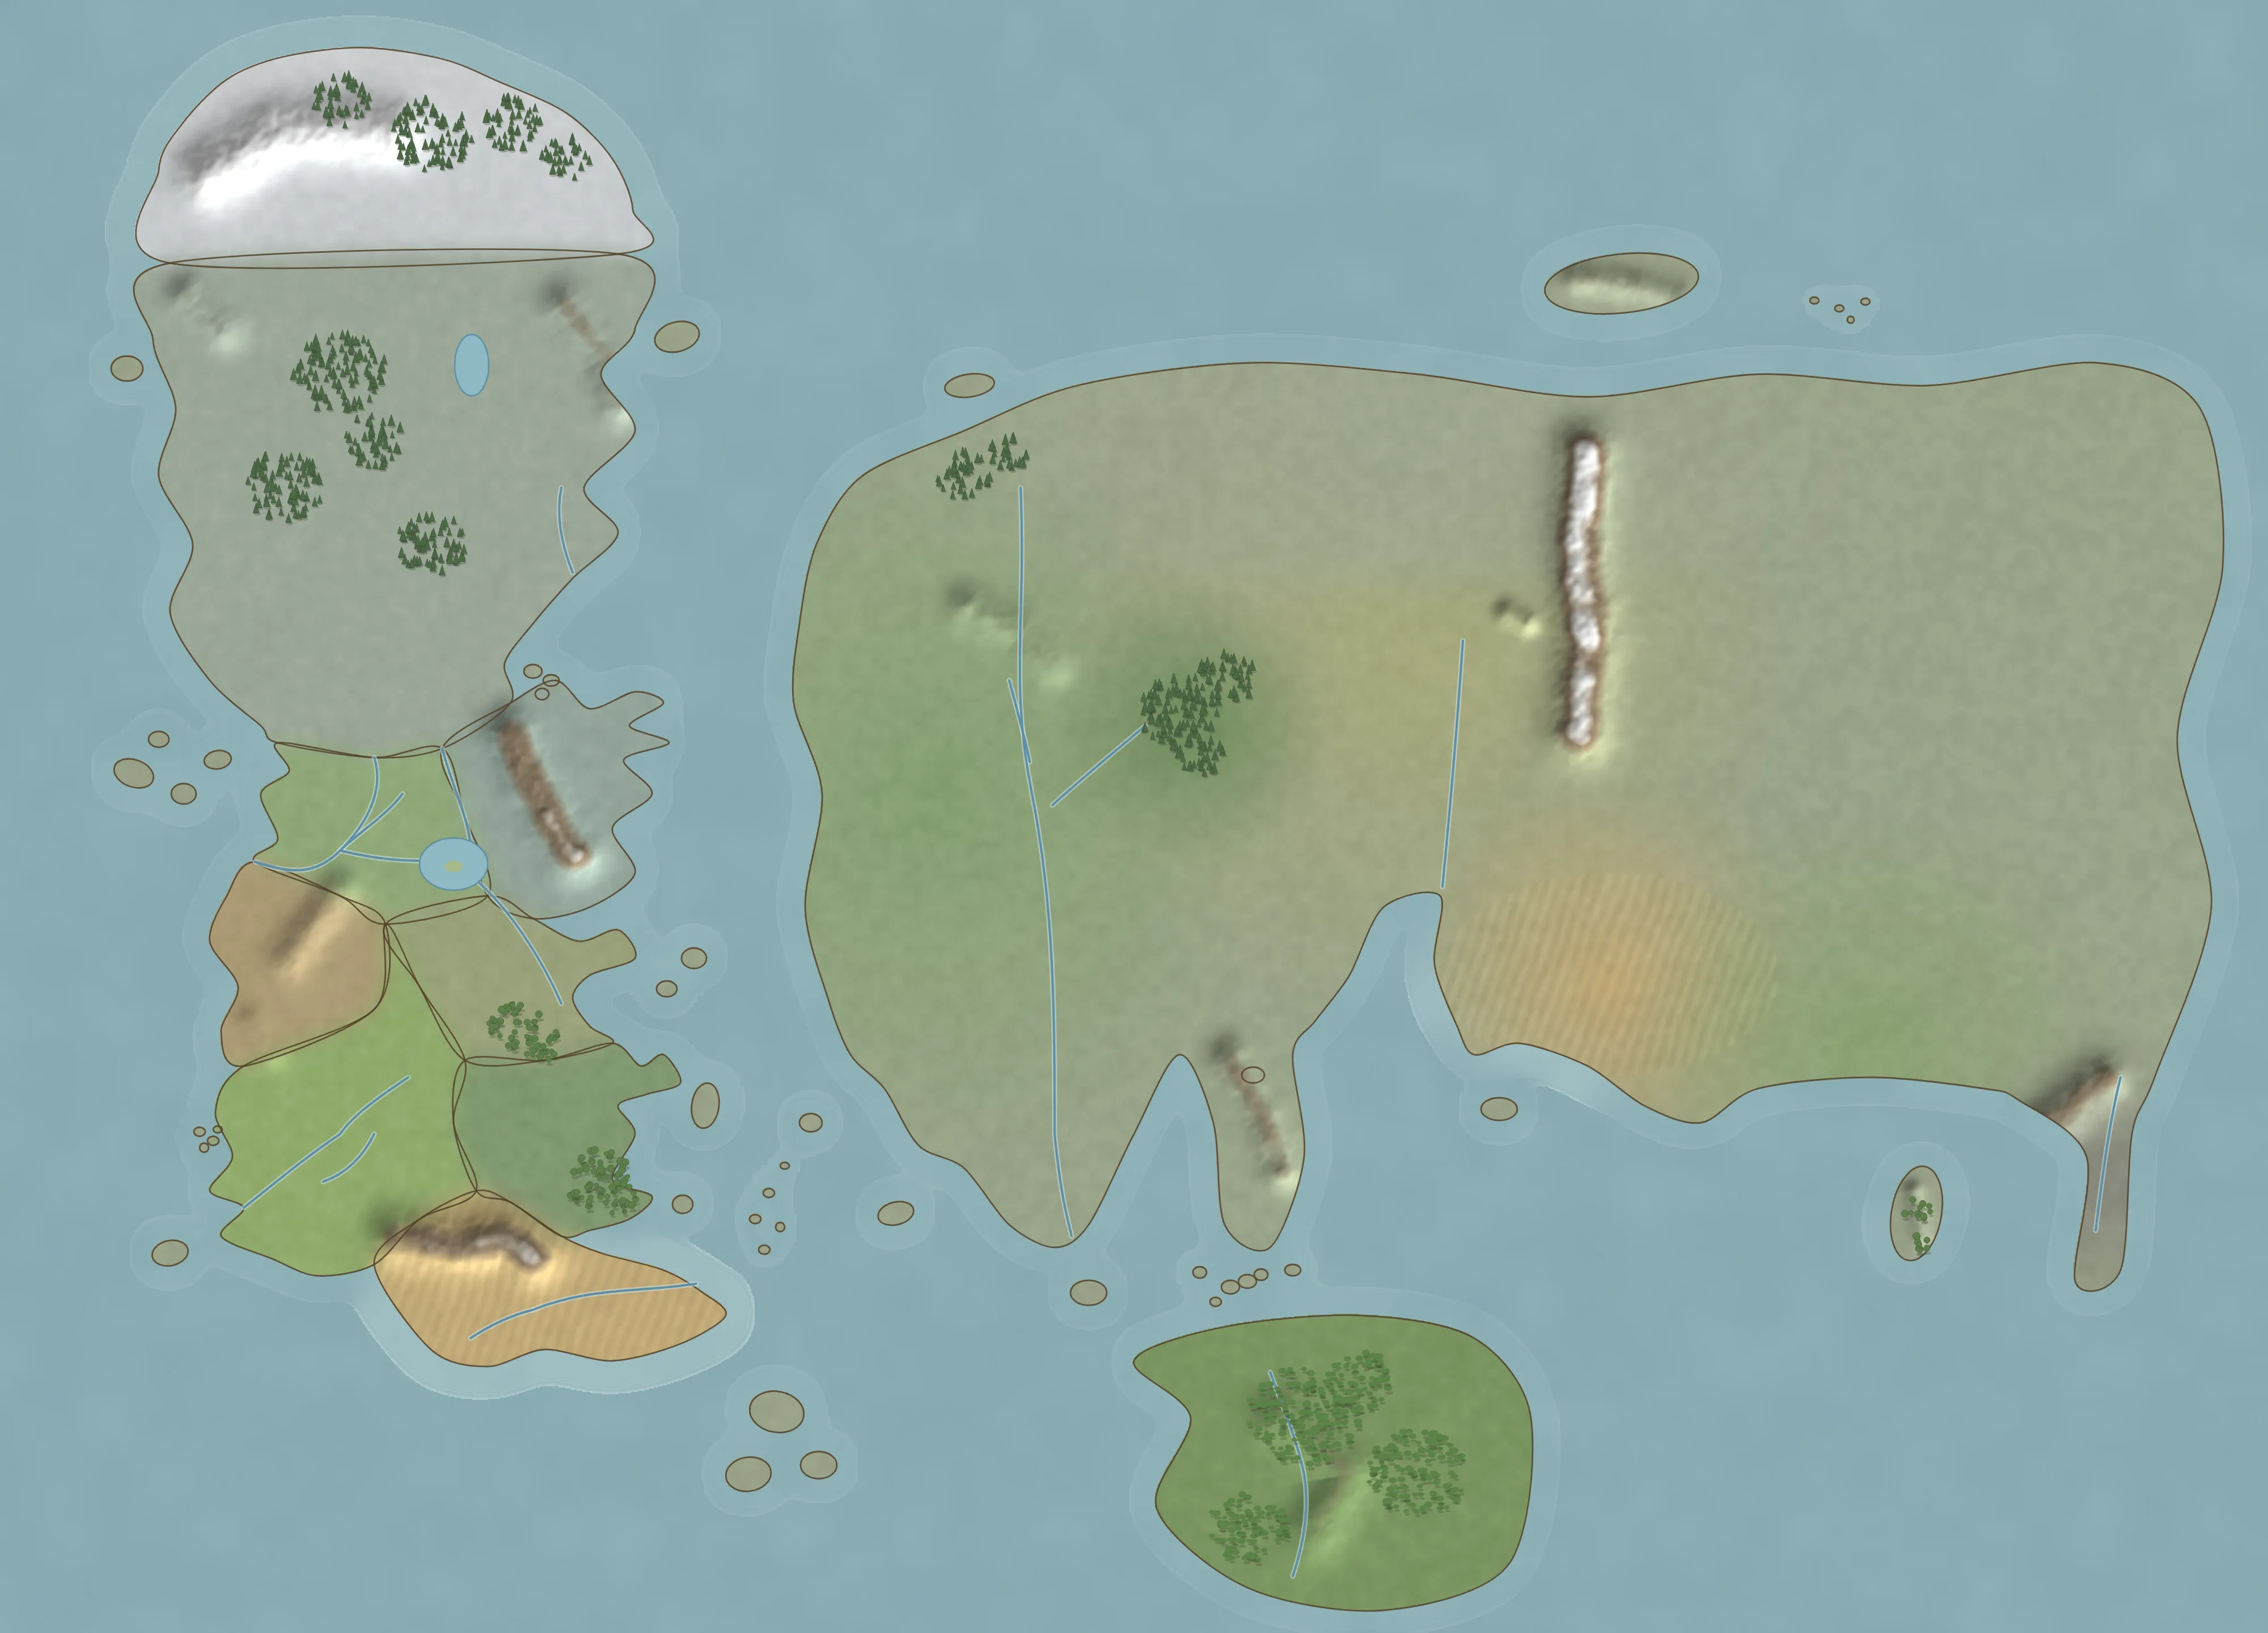
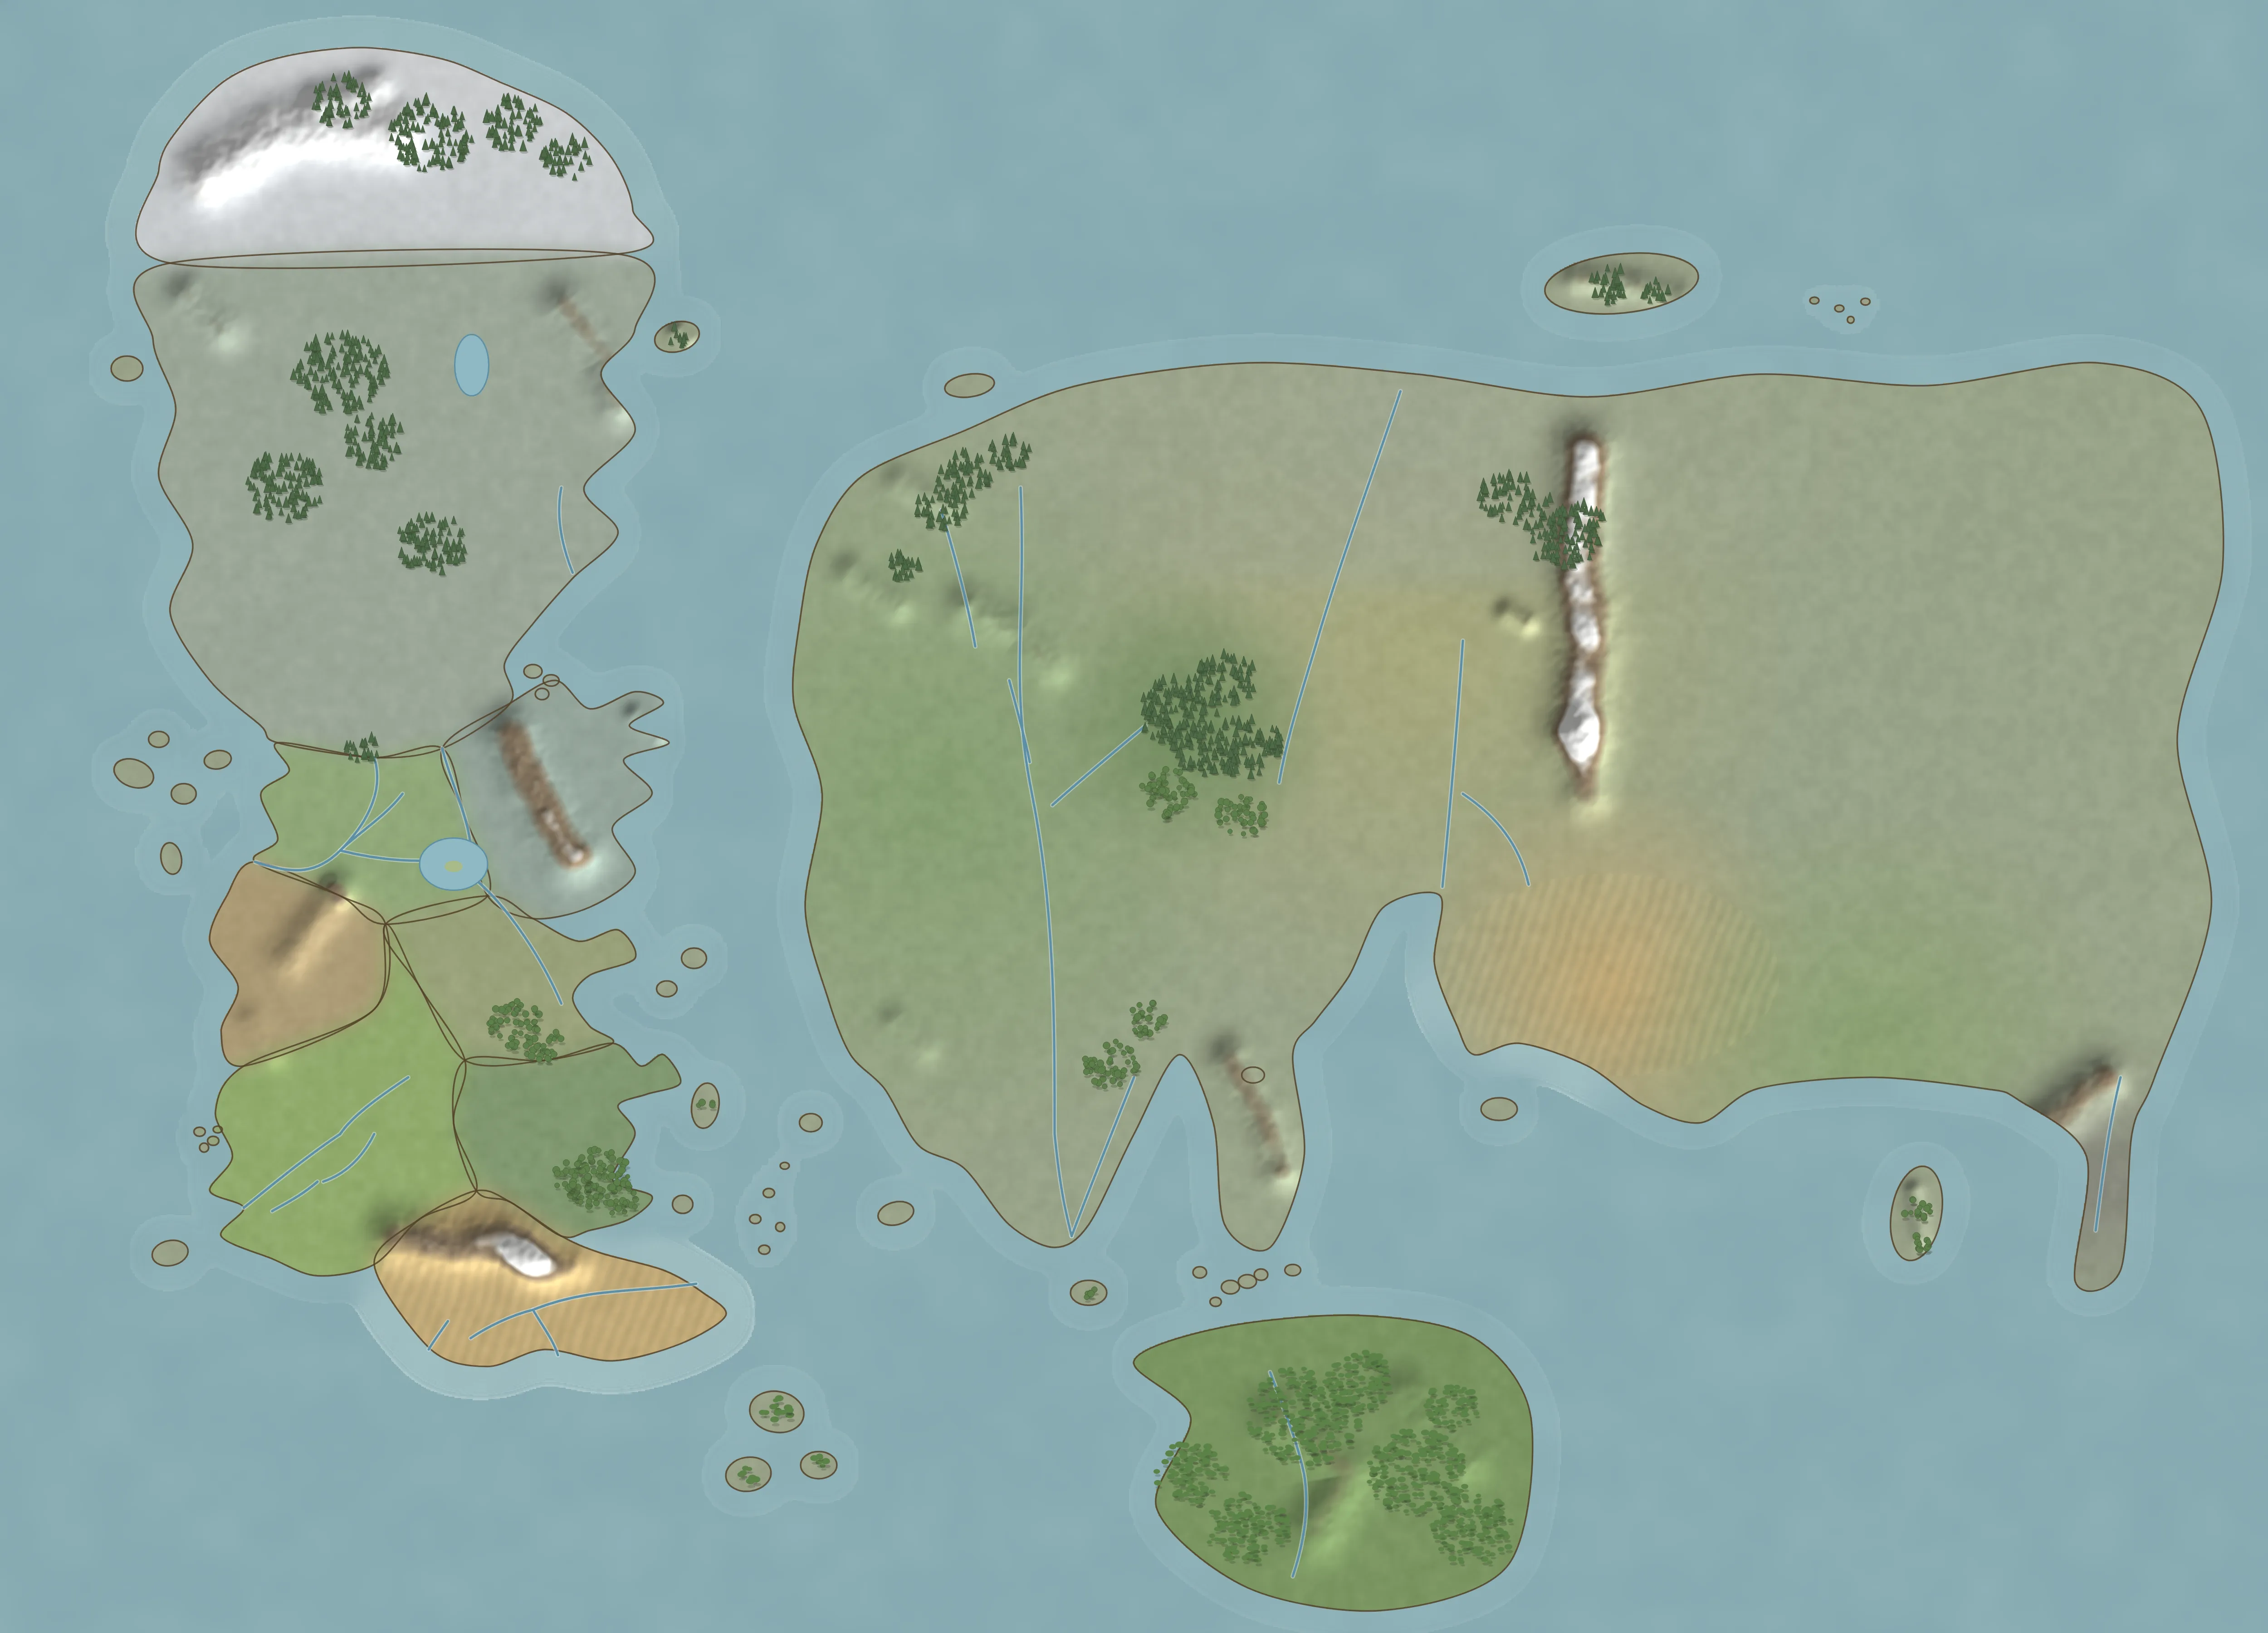
Больше местности и локаций: 154 точки, детальнее рельеф
- Подложка перезапечена в 2.5x (5000x3444, 338 КБ): +10 горных цепей
  (Бархатные холмы, Костяной Путь, юг Костей, Скагос, Золотой Зуб...),
  +20 лесов (Ифекеврон, волантийские, тайга Иба, гуще джунгли Соториоса),
  +8 рек (Сарной, Лхорулу, Бриммстоун, Торрентин...), плотнее деревья.
- +24 локации, упор на Эссос: Сарнор (Саат, Сарнат), Ваэс Кхадок,
  Андалос, руины Ройны (Сар Мелл, Ар Ной), Лхазар, Морош, Порт-Йхос,
  Каякаянайя, Джинки, Стигай, Ленг Йи; в Вестеросе — Ночной Форт,
  Королевин Венец, Кровавые Ворота, Систертон, Солеварни, Светлый
  Остров (дом Фарман), Тамблтон, Вейт и др. Всего 154.

Claude-Session: https://claude.ai/code/session_01UEdAnDjKpgUYGBMEShfaUH

diff --git a/src/data/locations.js b/src/data/locations.js
@@ -753,4 +753,128 @@ export const LOCATIONS = [
     region: 'summerisles', x: 728, y: 1292,
     desc: 'Порт на острове Омборо, окружённый рощами чёрного дерева, из которого островитяне режут свои знаменитые луки.',
   },
+  // ── Дополнение 2: Вестерос ──────────────────────────────────────────
+  {
+    id: 'nightfort', name: 'Ночной Форт', en: 'The Nightfort', type: 'ruin',
+    region: 'beyond', x: 302, y: 228,
+    desc: 'Древнейший и самый большой из замков Стены, заброшенный два века назад. О Ночном Форте рассказывают самые тёмные легенды Дозора — от Ночного Короля до Крысиной поварихи.',
+  },
+  {
+    id: 'queenscrown', name: 'Королевин Венец', en: 'Queenscrown', type: 'ruin',
+    region: 'north', x: 372, y: 262,
+    desc: 'Одинокая круглая башня на озёрном островке посреди Дара, когда-то позолоченная по зубцам в честь доброй королевы Алисанны. Деревня вокруг давно опустела.',
+  },
+  {
+    id: 'bloodygate', name: 'Кровавые Ворота', en: 'The Bloody Gate', type: 'castle',
+    region: 'vale', x: 468, y: 733,
+    desc: 'Укреплённый проход в Лунных горах — единственная дорога в Долину для армий. Десятки войск разбивались об эти ворота; отсюда и имя.',
+  },
+  {
+    id: 'sisterton', name: 'Систертон', en: 'Sisterton', type: 'town',
+    region: 'vale', x: 478, y: 606,
+    desc: 'Единственный городок Трёх Сестёр, порт контрабандистов на Милой Сестре. Над гаванью горит маяк-костёр дома Боррелов.',
+  },
+  {
+    id: 'fairmarket', name: 'Ярмарочное Поле', en: 'Fairmarket', type: 'town',
+    region: 'riverlands', x: 330, y: 700,
+    desc: 'Торговый городок на Синем Зубце, где сходятся речные пути северных Речных земель.',
+  },
+  {
+    id: 'saltpans', name: 'Солеварни', en: 'Saltpans', type: 'town',
+    region: 'riverlands', x: 428, y: 782,
+    desc: 'Портовый городок у залива Крабов, живущий выпариванием соли и морской торговлей.',
+  },
+  {
+    id: 'fairisle', name: 'Светлый Остров', en: 'Fair Isle', type: 'castle',
+    region: 'westerlands', x: 151, y: 757,
+    desc: 'Остров у западного побережья, прикрывающий Ланниспорт от океанских штормов и железнорождённых. Фарманы издавна держат здесь сильный флот.',
+    house: 'Дом Фарман',
+  },
+  {
+    id: 'tumbleton', name: 'Тамблтон', en: 'Tumbleton', type: 'town',
+    region: 'reach', x: 372, y: 928,
+    desc: 'Городок на Мандере у границы с Королевскими землями. В Танце Драконов здесь произошла одна из самых кровавых битв — о ней до сих пор поют печальные песни.',
+  },
+  {
+    id: 'weepingtown', name: 'Плачущий Город', en: 'The Weeping Town', type: 'town',
+    region: 'stormlands', x: 538, y: 1058,
+    desc: 'Портовый городок на южном берегу Мыса Гнева, названный в память о трауре по погибшему в море королю Штормовых земель.',
+  },
+  {
+    id: 'vaith', name: 'Вейт', en: 'Vaith', type: 'castle',
+    region: 'dorne', x: 500, y: 1162,
+    desc: 'Замок на одноимённой реке посреди дорнийских песков, «врата» из глубинной пустыни к Зеленокровной.',
+  },
+  {
+    id: 'stonyshore', name: 'Каменный Берег', en: 'The Stony Shore', type: 'landmark',
+    region: 'north', x: 195, y: 525,
+    desc: 'Пустынное западное побережье Севера: галька, рыбацкие деревни и вечная угроза набегов с Железных островов.',
+  },
+
+  // ── Дополнение 2: Эссос ─────────────────────────────────────────────
+  {
+    id: 'andalos', name: 'Андалос', en: 'Andalos', type: 'landmark',
+    region: 'freecities', x: 810, y: 470,
+    desc: 'Холмистая прародина андалов к северо-востоку от Пентоса. По вере Семерых именно здесь боги ходили среди людей; ныне через эти пустоши гонят стада пентошийские пастухи.',
+  },
+  {
+    id: 'sarmell', name: 'Сар Мелл', en: 'Sar Mell', type: 'ruin',
+    region: 'freecities', x: 950, y: 1032,
+    desc: 'Руины ройнарского города напротив Волон Териса. Именно отсюда, по преданию, воины Ройны бросили вызов драконам Валирии — и заплатили за это всем.',
+  },
+  {
+    id: 'arnoy', name: 'Ар Ной', en: 'Ar Noy', type: 'ruin',
+    region: 'freecities', x: 995, y: 700,
+    desc: 'Разрушенный ройнарский город на Койне, ныне поглощённый лесом Квохора.',
+  },
+  {
+    id: 'vaeskhadokh', name: 'Ваэс Кхадок', en: 'Vaes Khadokh', type: 'ruin',
+    region: 'dothraki', x: 1180, y: 560,
+    desc: '«Город трупов» — так дотракийцы зовут мёртвые города, оставшиеся от разграбленных ими царств. Ветер гоняет пыль по улицам, где когда-то жили десятки тысяч.',
+  },
+  {
+    id: 'saath', name: 'Саат', en: 'Saath', type: 'town',
+    region: 'dothraki', x: 1245, y: 348,
+    desc: 'Последний живой город Сарнора, ютящийся у устья Сарноя под защитой моря. Всё, что осталось от «Королевства Высоких Мужей».',
+  },
+  {
+    id: 'sarnath', name: 'Сарнат', en: 'Sarnath', type: 'ruin',
+    region: 'dothraki', x: 1150, y: 460,
+    desc: 'Разрушенная столица Сарнора, «Сарнат Высоких Башен». Великое царство степей пало под копытами дотракийцев в Столетие Крови, и ныне его города — Поле Воронов.',
+  },
+  {
+    id: 'morosh', name: 'Морош', en: 'Morosh', type: 'town',
+    region: 'ib', x: 960, y: 355,
+    desc: 'Лоратская рыбацкая колония в устье Секиры, на холодном берегу Дрожащего моря.',
+  },
+  {
+    id: 'lhazar', name: 'Лхазар', en: 'Lhazar', type: 'landmark',
+    region: 'slaversbay', x: 1340, y: 780,
+    desc: 'Земли мирных пастухов-лхазарян, которых дотракийцы презрительно зовут «ягнячьими людьми». Их деревни — первая добыча кхаласаров по пути к Заливу.',
+  },
+  {
+    id: 'portyhos', name: 'Порт-Йхос', en: 'Port Yhos', type: 'town',
+    region: 'qarth', x: 1385, y: 948,
+    desc: 'Квартийский форпост на пути к Заливу Работорговцев, первая гавань к западу от великого Кварта.',
+  },
+  {
+    id: 'kayakayanaya', name: 'Каякаянайя', en: 'Kayakayanaya', type: 'city',
+    region: 'fareast', x: 1408, y: 520,
+    desc: 'Караванный город в предгорьях Костей, стерегущий Стальную дорогу. Стены его охраняют женщины-воины: мужчинам здесь носить оружие запрещено.',
+  },
+  {
+    id: 'jinqi', name: 'Джинки', en: 'Jinqi', type: 'city',
+    region: 'fareast', x: 1745, y: 918,
+    desc: 'Восточный город золотой империи Йи Ти на берегу Нефритового моря, откуда караваны уходят к Тени.',
+  },
+  {
+    id: 'stygai', name: 'Стигай', en: 'Stygai', type: 'ruin',
+    region: 'fareast', x: 1852, y: 1015,
+    desc: '«Город Ночи» в сердце Тенистых земель, куда не заглядывает солнце. Даже асшайские теневязы не смеют оставаться там после наступления тьмы.',
+  },
+  {
+    id: 'lengyi', name: 'Ленг Йи', en: 'Leng Yi', type: 'town',
+    region: 'fareast', x: 1688, y: 1058,
+    desc: 'Северный порт острова Ленг, где торгуют шафраном и самоцветами. Императрицы Ленга правят отсюда своим двуединым народом.',
+  },
 ]

diff --git a/src/map/shapes.js b/src/map/shapes.js
@@ -60,6 +60,7 @@ export const ISLANDS = [
   [602, 1062, 9, 8, 0, 'Эстермонт'],
   [150, 1105, 16, 11, -12, 'Арбор'],
   [176, 998, 5, 4, 0], [188, 1006, 5, 4, 0], [180, 1012, 4, 4, 0], [192, 996, 4, 3, 0], // Щиты
+  [151, 757, 9, 14, -10, 'Светлый остров'],
   // Эссос
   [855, 340, 22, 10, -8, 'Лорат'],
   [1430, 250, 68, 26, -6, 'Иб'],
@@ -95,6 +96,13 @@ export const RIVERS = [
   'M1272,782 C1280,700 1285,640 1290,565', // Скахазадхан
   'M1848,1085 C1855,1030 1860,990 1870,950', // Пепел
   'M1120,1210 C1135,1250 1145,1275 1150,1300 C1155,1330 1150,1360 1140,1390', // Замойос
+  'M1235,345 C1210,420 1180,500 1160,570 C1145,620 1135,650 1128,690', // Сарной
+  'M1290,700 C1320,720 1340,745 1348,780', // приток Скахазадхана из Лхазара
+  'M1000,950 C980,1000 960,1050 945,1090', // Лхорулу к Волантису
+  'M470,1155 C480,1172 488,1182 492,1195', // Бриммстоун
+  'M395,1165 C388,1175 382,1183 378,1190', // Торрентин
+  'M280,1042 C265,1055 250,1062 240,1068', // нижний Мандер
+  'M830,450 C845,500 855,540 860,570', // река Андалоса
 ]
 
 // Озёра: [cx, cy, rx, ry]
@@ -152,6 +160,17 @@ export const FORESTS = [
   [850, 420, 26], [890, 400, 20], // леса Андалоса
   [1150, 1250, 55], [1250, 1300, 48], [1100, 1350, 40], [1200, 1220, 34], // джунгли Соториоса
   [1690, 1070, 14], [1692, 1100, 12], // джунгли Ленга
+  [1100, 660, 34], [1030, 700, 28], [1095, 720, 24], // лес Квохора шире
+  [1380, 470, 40], [1330, 440, 28], // лес Ифекеврона
+  [980, 940, 26], [1010, 900, 20], // волантийские леса
+  [830, 450, 24], [800, 500, 18], // леса Андалоса
+  [1300, 1350, 40], [1050, 1300, 34], [1280, 1240, 26], // джунгли Соториоса гуще
+  [597, 297, 12], [622, 975, 8], // Скагос и Тарт
+  [1420, 252, 20], [1460, 258, 14], // тайга Иба
+  [685, 1245, 14], [660, 1300, 11], [722, 1292, 9], // Летние острова
+  [960, 1140, 9], // Наат
+  [320, 660, 16], // леса Перешейка
+  [505, 1040, 18], // Дождливый лес шире
 ]
 
 // Волны на морях: [x, y]

diff --git a/gen/terrain.js b/gen/terrain.js
@@ -16,7 +16,7 @@ import {
 
 const W = 2000
 const H = 1440
-const SS = 2 // суперсэмплинг подложки
+const SS = 2.5 // суперсэмплинг подложки
 
 // ── шум ──
 const hash = (x, y) => {
@@ -54,8 +54,18 @@ const CHAINS = [
   { pts: [[1770, 1025], [1815, 985], [1855, 950]], w: 26, h: 0.8 }, // горы Асшая
   { pts: [[1390, 245], [1445, 252], [1480, 262]], w: 18, h: 0.5 }, // Иб
   { pts: [[1330, 540], [1345, 548]], w: 14, h: 0.5 }, // Матерь Гор
+  { pts: [[750, 505], [790, 535]], w: 18, h: 0.4 }, // Бархатные холмы
+  { pts: [[795, 425], [835, 445]], w: 18, h: 0.35 }, // холмы Андалоса
+  { pts: [[1392, 645], [1400, 700]], w: 26, h: 0.7 }, // Кости южнее
+  { pts: [[280, 90], [330, 75]], w: 20, h: 0.6 }, // север Клыков
+  { pts: [[560, 630], [580, 648]], w: 12, h: 0.35 }, // холмы Перстов
+  { pts: [[292, 782], [300, 792]], w: 10, h: 0.4 }, // Золотой Зуб
+  { pts: [[452, 1108], [485, 1122], [505, 1118]], w: 20, h: 0.55 }, // Костяной Путь
+  { pts: [[598, 292], [606, 300]], w: 12, h: 0.45 }, // Скагос
+  { pts: [[790, 900], [815, 925]], w: 16, h: 0.3 }, // Спорные холмы
   // Соториос и Ленг
   { pts: [[1130, 1250], [1190, 1300], [1160, 1350]], w: 30, h: 0.55 },
+  { pts: [[1240, 1230], [1290, 1290]], w: 26, h: 0.45 },
   { pts: [[1688, 1050], [1694, 1090]], w: 12, h: 0.35 },
 ]
 
@@ -266,7 +276,7 @@ for (const r of Object.values(REGIONS)) if (r.polygon) ctx.stroke(regionPath(r))
 for (const d of RIVERS) {
   const path = new Path2D(d)
   ctx.strokeStyle = 'rgba(210,228,232,0.5)'
-  ctx.lineWidth = 4.6
+  ctx.lineWidth = 4.0
   ctx.lineCap = 'round'
   ctx.stroke(path)
 }
@@ -294,7 +304,7 @@ const treeType = (cx, cy) => {
 }
 for (const [cx, cy, rad] of FORESTS) {
   const type = treeType(cx, cy)
-  const count = Math.round(rad * rad * 0.055)
+  const count = Math.round(rad * rad * 0.07)
   for (let i = 0; i < count; i++) {
     const a = hash(i, cx) * Math.PI * 2
     const rr = Math.sqrt(hash(cx + i, cy)) * rad * 0.92

diff --git a/src/data/houses.js b/src/data/houses.js
@@ -145,6 +145,10 @@ export const HOUSES = {
     field: '#d97e2e', charge: '🔥',
     sigil: 'горящее дерево на дымчатом поле',
   },
+  'Дом Фарман': {
+    field: '#28477e', charge: '⛵',
+    sigil: 'три серебряных корабля на синем поле',
+  },
   'Дом Клиган': {
     field: '#d8c24a', charge: '🐕',
     sigil: 'три чёрных пса на жёлтом поле',

diff --git a/README.md b/README.md
@@ -14,7 +14,7 @@
   снега) поверх которой работает векторный интерактив; генератор подложки —
   в `gen/terrain.js` (открыть `/gen/terrain.html` через `npx vite`).
 - Зум и панорамирование: колесо мыши, перетаскивание, двойной клик, кнопки.
-- 130 локаций: столицы, замки, города, городки, руины и примечательные места
+- 154 локации: столицы, замки, города, городки, руины и примечательные места
   с карточками-описаниями, гербами и девизами правящих домов.
 - Поиск по русским и английским названиям.
 - Фильтры по типу локации и по 20 регионам трёх частей света; клик по региону